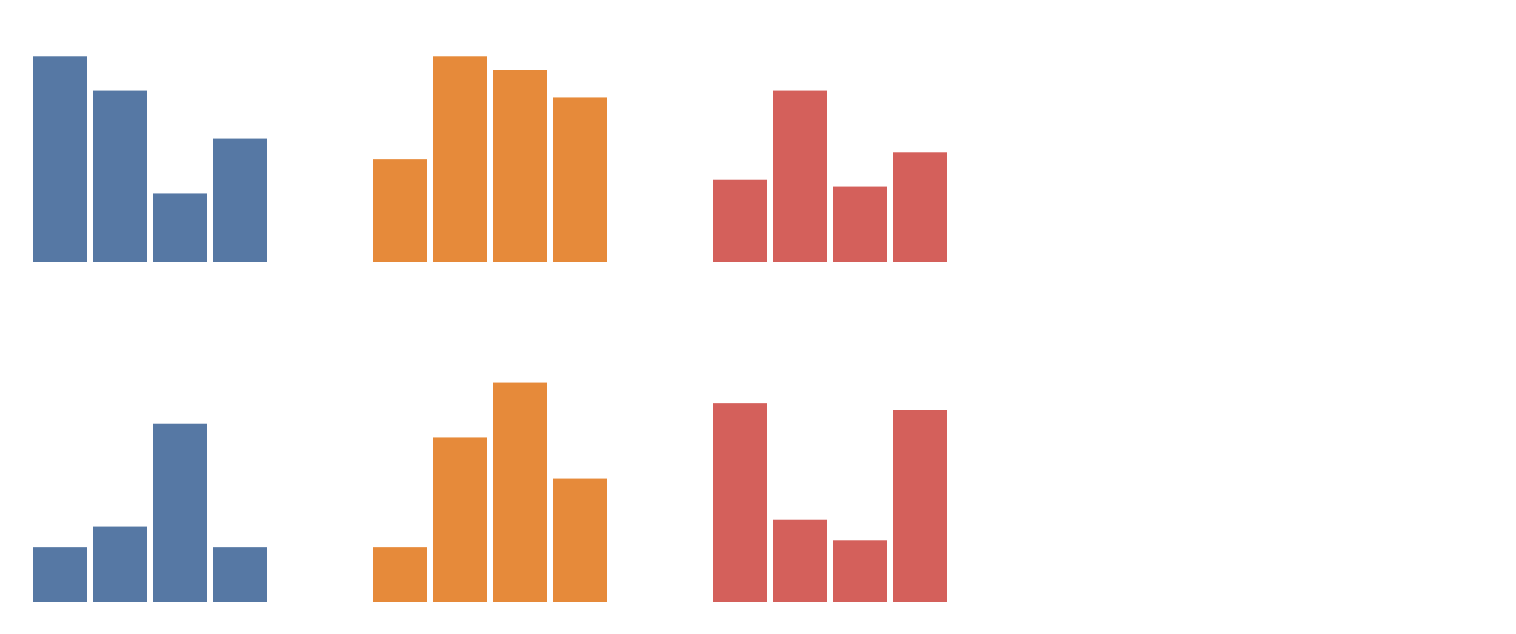
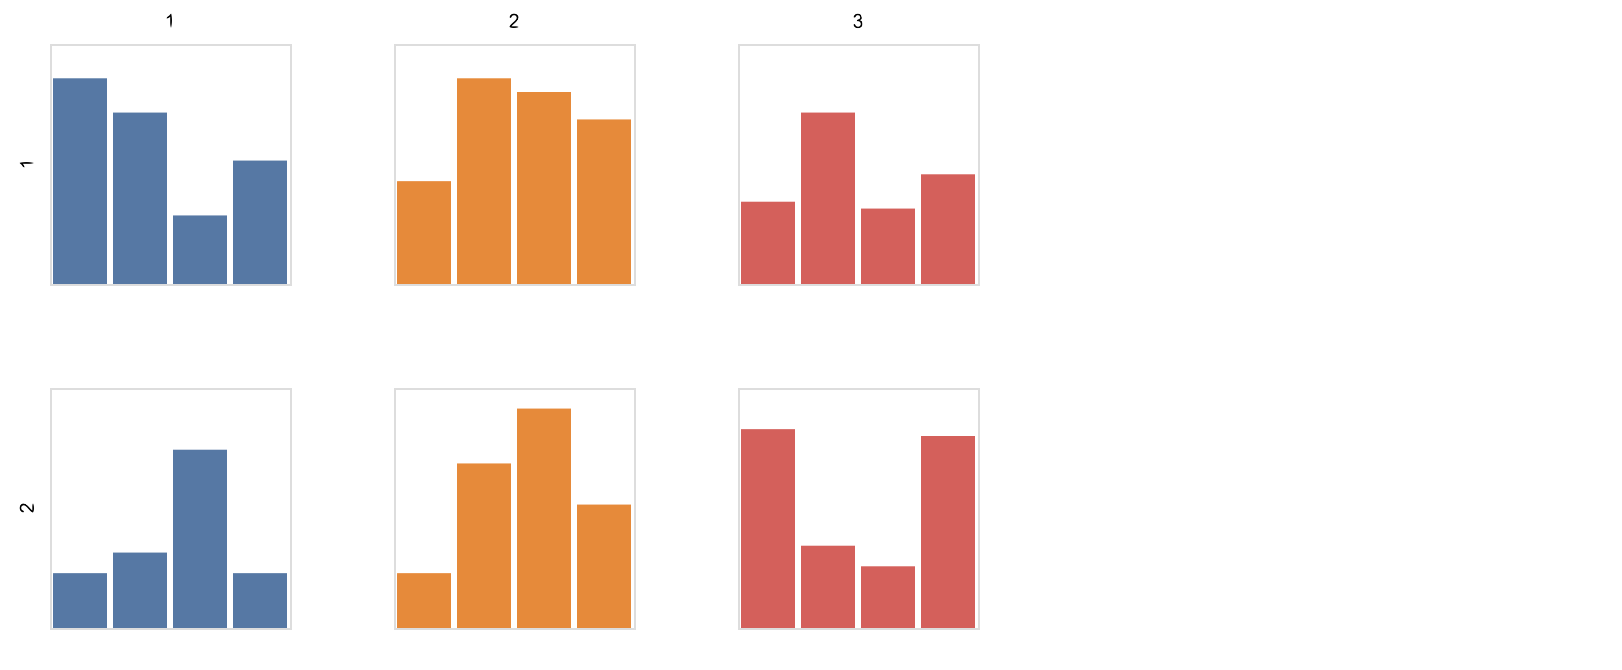
Addtional detail in tidy data example

diff --git a/documents/tutorials/introducingElm/elmIntroduction5.md b/documents/tutorials/introducingElm/elmIntroduction5.md
@@ -270,9 +270,9 @@ In our medals example, we could restructure the data as follows:
 | 1   | 3      | 1       | 10    |
 | 1   | 3      | 2       | 28    |
 | 1   | 3      | 3       | 11    |
-| 2   | 4      | 1       | 18    |
-| 2   | 4      | 2       | 24    |
-| 2   | 4      | 3       | 16    |
+| 1   | 4      | 1       | 18    |
+| 1   | 4      | 2       | 24    |
+| 1   | 4      | 3       | 16    |
 | 2   | 1      | 1       | 8     |
 | 2   | 1      | 2       | 8     |
 | 2   | 1      | 3       | 29    |
@@ -288,8 +288,15 @@ In our medals example, we could restructure the data as follows:
 
 Here, the row and column positions are encoded explicitly so that even if we changed the order of rows or columns, the meaning of the data would not change (if this were a medal table, the values in `column` might be four country names rather than numbers 1 to 4 and the values in `row` might be the years 2012 and 2016 rather than 1 and 2).
 
-We can use Elm functions to reshape a data table into tidy format.
-The example below shows how we might generate the tidy table above:
+The sequencing of numbers in the `row`, `column` and `category` columns show a clear structure that we can generate with Elm.
+
+- `row` contains `1` repeated (_number of columns_ \* _number of categories_) times, followed by `2` repeated the same number of times. We can use Elm's [List.repeat](https://package.elm-lang.org/packages/elm/core/latest/List#repeat) to generate this sequence by repeating values in the list `[1,2]` 12 times each. Because this will generate a list of lists (`[[1,1,1,1,1,1,1,1,1,1,1,1],[2,2,2,2,2,2,2,2,2,2,2,2]]`) we need to 'flatten' it into a single list with Elm's [List.concatMap](https://package.elm-lang.org/packages/elm/core/latest/List#concatMap).
+
+- 'column' contains `[1,2,3,4]` (for the four columns) with each column number repeated _number of categories_ times and then the whole sequence repeated _number of rows_ times. Using `List.repeat` with `List.map` would generate a list of lists of lists, so we need to use both `List.concatMap` and an additional [List.concat](https://package.elm-lang.org/packages/elm/core/latest/List#concat) to flatten into a single list.
+
+- `category` contains `[1,2,3]` (the three categories) repeated (_number of rows \* number of columns_) times, again computable with a combination of `stepRange`, `List.repeat` and `List.concat`.
+
+The example below shows how we might generate the tidy table:
 
 ```elm {l}
 tidyData : List DataColumn -> Data
@@ -334,12 +341,6 @@ This provides us with a tidy data table that we can use to generate a collection
 barGrid : Spec
 barGrid =
     let
-        cfg =
-            -- Styling to remove axis gridlines and labels
-            configure
-                << configuration (coHeader [ hdLabelFontSize 0.1 ])
-                << configuration (coView [ vicoStroke Nothing, vicoHeight 120 ])
-
         enc =
             encoding
                 << position X [ pName "cat", pMType Ordinal, pAxis [] ]
@@ -347,8 +348,7 @@ barGrid =
                 << color [ mName "cat", mMType Nominal, mLegend [] ]
     in
     toVegaLite
-        [ cfg []
-        , tidyData []
+        [ tidyData []
         , spacing 50
         , specification (asSpec [ width 120, height 120, bar [], enc [] ])
         , facet
@@ -360,7 +360,7 @@ barGrid =
 
 {(question |}
 
-Can you modify the example above so it facets by category for each row so it looks as follows?
+Can you modify the example so it facets by category for each row as below?
 
 ![Faceted bar grid](images/facetExample.png)
 
